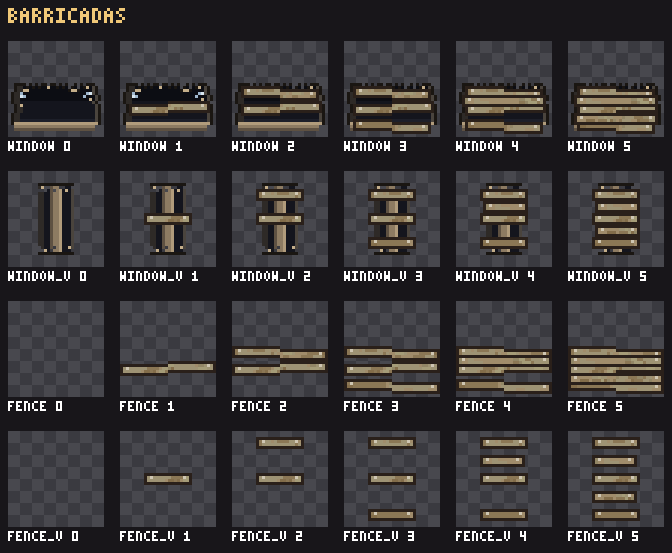
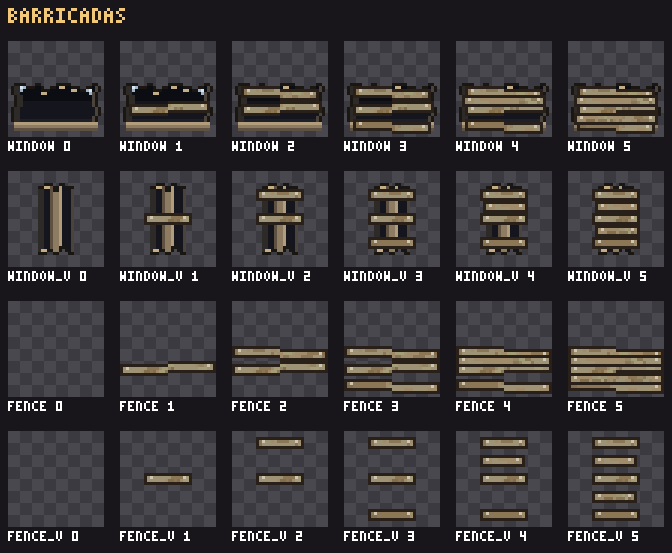
feat(mapa): el hueco de la ventana sin píxeles sueltos
El borde roto ya no alterna contorno y pared píxel a píxel: se rompe a
escalones de 2 px o más, con el contorno por vecindad, astillas de dos en
dos y cristales en grupos de tres. Lo mismo en la franja vertical.

PixelLab no dio con el diseño (Pro con referencia, inpaint sobre la pared
real y correct_pixelart), así que el arreglo está en el propio dibujo.

diff --git a/scripts/lib/window-art.ts b/scripts/lib/window-art.ts
@@ -64,76 +64,118 @@ const HOLE = {
   outline: rgb('#1a1612'),
 } as const;
 
-/** A fixed pseudo-random sequence, so the broken edge is the same on every build. */
-function noise(seed: number): () => number {
-  let s = seed;
-  return () => {
-    s = (s * 1103515245 + 12345) & 0x7fffffff;
-    return s / 0x7fffffff;
-  };
+/**
+ * A broken edge's profile: how far it bites in at each step along it, given
+ * as runs of [depth, length]. Runs of 2 px or more keep the edge in clean
+ * steps instead of a comb of single pixels (petición del usuario: no stray
+ * pixels).
+ */
+function profile(runs: readonly (readonly [number, number])[]): number[] {
+  return runs.flatMap(([depth, length]) => Array.from({ length }, () => depth));
+}
+
+/**
+ * Outlines `mask` (its cells marked true) inside the box (bx0..bx1, by0..by1):
+ * every cell of the box out of the mask that touches it side by side and
+ * where `edge(x, y)` (the mask cell it touches) allows it.
+ */
+function outline(f: Frame, mask: boolean[][], box: readonly [number, number, number, number], edge: (x: number, y: number) => boolean): void {
+  const [bx0, by0, bx1, by1] = box;
+  const on = (x: number, y: number): boolean => mask[y]?.[x] === true;
+  for (let y = by0; y <= by1; y++) {
+    for (let x = bx0; x <= bx1; x++) {
+      if (on(x, y)) continue;
+      const touches = (
+        [
+          [x - 1, y],
+          [x + 1, y],
+          [x, y - 1],
+          [x, y + 1],
+        ] as const
+      ).some(([nx, ny]) => on(nx, ny) && edge(nx, ny));
+      if (touches) setRgb(f, x, y, HOLE.outline);
+    }
+  }
 }
 
 /**
  * The hole a window leaves in a horizontal wall once its planks are gone
  * (petición del usuario: aligned with the wall, and more hole than wall):
  * the face broken open across almost its whole width (columns 2..29) and
- * height (rows 15..29 of the cell, under the wall's top edge), with a
- * jagged top edge and sides, a dark outline, splinters of the broken boards
- * and shards of glass in its corners. Inside, the dark, deeper at the top;
- * the wall's thickness shows on its left side (in shadow), as a lit sliver
- * on its right and as a sill at its bottom (light from the top left).
+ * height (rows 15..29 of the cell, under the wall's top edge), its top edge
+ * and sides broken in steps of 2 px or more, with a dark outline, a few
+ * splinters of the broken boards and shards of glass in its top corners.
+ * Inside, the dark, deeper at the top; the wall's thickness shows on its
+ * left side (in shadow), as a lit sliver on its right and as a straight
+ * sill at its bottom (light from the top left).
  */
 export function brokenHole(): Frame {
-  const rnd = noise(11);
   const f = blank(32, 32);
   const x0 = 2;
   const x1 = 29;
   const y0 = 15;
   const y1 = 29;
-  const top: number[] = [];
-  for (let x = x0; x <= x1; x++) top.push(y0 + (rnd() < 0.35 ? 1 : 0) + (rnd() < 0.12 ? 1 : 0));
-  const left: number[] = [];
-  const right: number[] = [];
+  const sill = y1 - 2;
+  /** How far the top edge bites down at each column (x0..x1) and the sides in at each row above the sill (y0..sill - 1). */
+  const top = profile([
+    [0, 4],
+    [1, 3],
+    [0, 2],
+    [2, 3],
+    [1, 2],
+    [0, 5],
+    [1, 3],
+    [2, 2],
+    [1, 2],
+    [0, 2],
+  ]);
+  const left = profile([
+    [0, 3],
+    [1, 4],
+    [0, 5],
+  ]);
+  const right = profile([
+    [0, 2],
+    [1, 5],
+    [0, 3],
+    [1, 2],
+  ]);
+  const mask: boolean[][] = Array.from({ length: 32 }, () => Array<boolean>(32).fill(false));
   for (let y = y0; y <= y1; y++) {
-    left.push(x0 + (rnd() < 0.3 ? 1 : 0));
-    right.push(x1 - (rnd() < 0.3 ? 1 : 0));
-  }
-  for (let y = y0; y <= y1; y++) {
-    const l = left[y - y0] ?? x0;
-    const r = right[y - y0] ?? x1;
+    const l = y >= sill ? x0 : x0 + (left[y - y0] ?? 0);
+    const r = y >= sill ? x1 : x1 - (right[y - y0] ?? 0);
     for (let x = l; x <= r; x++) {
-      if (y < (top[x - x0] ?? y0)) continue;
+      if (y < y0 + (top[x - x0] ?? 0)) continue;
+      const row = mask[y];
+      if (row) row[x] = true;
       const depth = (y - y0) / (y1 - y0);
       let c: Rgb = depth < 0.3 ? HOLE.darkTop : depth < 0.75 ? HOLE.dark : HOLE.darkLow;
       if (x <= l + 1) c = HOLE.jamb;
       if (x === r) c = HOLE.jambLit;
-      if (y >= y1 - 2) c = y === y1 ? HOLE.sillDark : y === y1 - 2 ? HOLE.sillLight : HOLE.sill;
+      if (y >= sill) c = y === y1 ? HOLE.sillDark : y === sill ? HOLE.sillLight : HOLE.sill;
       setRgb(f, x, y, c);
     }
   }
-  for (let x = x0; x <= x1; x++) setRgb(f, x, (top[x - x0] ?? y0) - 1, HOLE.outline);
-  for (let y = y0; y <= y1 - 2; y++) {
-    setRgb(f, (left[y - y0] ?? x0) - 1, y, HOLE.outline);
-    setRgb(f, (right[y - y0] ?? x1) + 1, y, HOLE.outline);
-  }
+  // The outline round the break, but not along the sill (it sits flush with the wall).
+  outline(f, mask, [x0 - 1, y0 - 1, x1 + 1, y1], (_x, y) => y < sill);
+  // Broken board ends sticking into the dark, 2 px each, under the top edge.
   for (const [x, y] of [
-    [5, 16],
-    [6, 16],
-    [13, 15],
+    [11, 17],
+    [12, 17],
+    [17, 15],
+    [18, 15],
     [21, 16],
     [22, 16],
-    [26, 15],
-    [4, 21],
-    [27, 19],
   ] as const)
     setRgb(f, x, y, HOLE.splinter);
+  // Shards of glass left in the top corners, 3 px each.
   for (const [x, y, c] of [
-    [4, 17, HOLE.glass],
-    [5, 18, HOLE.glass],
-    [4, 18, HOLE.glassLight],
-    [26, 17, HOLE.glass],
-    [27, 17, HOLE.glassLight],
-    [25, 18, HOLE.glass],
+    [4, 15, HOLE.glassLight],
+    [5, 15, HOLE.glass],
+    [4, 16, HOLE.glass],
+    [27, 16, HOLE.glassLight],
+    [26, 16, HOLE.glass],
+    [27, 17, HOLE.glass],
   ] as const)
     setRgb(f, x, y, c);
   return f;
@@ -141,20 +183,37 @@ export function brokenHole(): Frame {
 
 /**
  * The same hole in a vertical wall, seen from above: its 12 px strip
- * (columns 10..21) broken off along rows 5..26, with ragged ends and
- * splinters; down in the gap the wall's thickness (its left side in shadow,
- * a lit sliver on its right) and the sill along the middle, lower down.
+ * (columns 10..21) broken off along rows 5..26, its two ends broken in
+ * steps of 2 px or more with a dark outline and a splinter each; down in the
+ * gap the wall's thickness (its left side in shadow, a lit sliver on its
+ * right) and the sill along the middle, lower down.
  */
 export function brokenGap(): Frame {
-  const rnd = noise(23);
   const f = blank(32, 32);
   const x0 = 10;
   const x1 = 21;
   const y0 = 5;
   const y1 = 26;
-  for (let y = y0; y <= y1; y++) {
-    for (let x = x0; x <= x1; x++) {
-      if ((y < y0 + 2 || y > y1 - 2) && rnd() < 0.4) continue;
+  /** How far each end bites into the gap at each column (x0..x1). */
+  const top = profile([
+    [1, 2],
+    [0, 3],
+    [2, 2],
+    [0, 2],
+    [1, 3],
+  ]);
+  const bottom = profile([
+    [0, 3],
+    [1, 2],
+    [0, 2],
+    [2, 3],
+    [0, 2],
+  ]);
+  const mask: boolean[][] = Array.from({ length: 32 }, () => Array<boolean>(32).fill(false));
+  for (let x = x0; x <= x1; x++) {
+    for (let y = y0 + (top[x - x0] ?? 0); y <= y1 - (bottom[x - x0] ?? 0); y++) {
+      const row = mask[y];
+      if (row) row[x] = true;
       let c: Rgb = HOLE.dark;
       if (x <= x0 + 1) c = HOLE.jamb;
       if (x === x1) c = HOLE.jambLit;
@@ -162,15 +221,13 @@ export function brokenGap(): Frame {
       setRgb(f, x, y, c);
     }
   }
-  for (let x = x0; x <= x1; x++) {
-    setRgb(f, x, y0 - 1, HOLE.outline);
-    setRgb(f, x, y1 + 1, HOLE.outline);
-  }
+  // The outline across both broken ends, within the wall's strip (its sides are the wall's own edges).
+  outline(f, mask, [x0, y0 - 1, x1, y1 + 1], () => true);
   for (const [x, y] of [
-    [11, 5],
-    [19, 6],
+    [12, 5],
+    [13, 5],
+    [11, 26],
     [12, 26],
-    [20, 25],
   ] as const)
     setRgb(f, x, y, HOLE.splinter);
   return f;

diff --git a/scripts/lib/window-art.test.ts b/scripts/lib/window-art.test.ts
@@ -43,6 +43,48 @@ describe('window art', () => {
     expect(b && b.minX >= 10 && b.maxX <= 21 && b.minY >= 4 && b.maxY <= 27).toBe(true);
   });
 
+  it('breaks its edges in steps of 2 px or more and leaves no pixel alone in its colour (petición del usuario: no stray pixels)', () => {
+    const rgbAt = (f: Frame, x: number, y: number): string => {
+      const i = (y * f.width + x) * 4;
+      return (f.pixels[i + 3] ?? 0) === 0 ? '' : `${f.pixels[i]},${f.pixels[i + 1]},${f.pixels[i + 2]}`;
+    };
+    /** Each run of the same first row inside the outline along the hole's top edge (columns 2..29) or the gap's ends (from the top and from the bottom, columns 10..21). */
+    const runs = (edge: number[]): number[] => {
+      const out: number[] = [];
+      edge.forEach((v, i) => (i > 0 && v === edge[i - 1] ? (out[out.length - 1] = (out[out.length - 1] ?? 0) + 1) : out.push(1)));
+      return out;
+    };
+    const firstRow = (f: Frame, x: number, fromBottom: boolean): number => {
+      for (let k = 0; k < f.height; k++) {
+        const y = fromBottom ? f.height - 1 - k : k;
+        const c = rgbAt(f, x, y);
+        if (c && c !== '26,22,18') return y;
+      }
+      return -1;
+    };
+    const hole = brokenHole();
+    const gap = brokenGap();
+    const cols = (a: number, b: number): number[] => Array.from({ length: b - a + 1 }, (_, i) => a + i);
+    for (const edge of [
+      cols(2, 29).map((x) => firstRow(hole, x, false)),
+      cols(10, 21).map((x) => firstRow(gap, x, false)),
+      cols(10, 21).map((x) => firstRow(gap, x, true)),
+    ])
+      expect(Math.min(...runs(edge))).toBeGreaterThanOrEqual(2);
+    // Every splinter, shard and outline pixel has a neighbour of its own colour, or one of the other two colours of its cluster (a shard's light pixel).
+    for (const f of [hole, gap]) {
+      for (let y = 0; y < 32; y++) {
+        for (let x = 0; x < 32; x++) {
+          const c = rgbAt(f, x, y);
+          if (!c) continue;
+          const near = [rgbAt(f, x - 1, y), rgbAt(f, x + 1, y), rgbAt(f, x, y - 1), rgbAt(f, x, y + 1)];
+          const glass = (k: string): boolean => k === '159,182,204' || k === '216,230,240';
+          expect(near.includes(c) || (glass(c) && near.some(glass)), `${x},${y}`).toBe(true);
+        }
+      }
+    }
+  });
+
   it('cuts a plank of wood with a dark outline and a nail near each end', () => {
     const p = plank(wood(), 0, 0, 24);
     expect([p.width, p.height]).toEqual([24, 4]);

diff --git a/docs/ASSETS.md b/docs/ASSETS.md
@@ -97,8 +97,8 @@ public/assets/
 - **`window_planks`:** el frame N representa la ventana con N tablones (del 0 al 5).
   - La ventana es un hueco en su pared: su celda lleva el tramo de pared del muro (borde superior y cara del lado que mira, tablas por fuera o yeso hacia una habitación), y la hoja se dibuja encima con fondo transparente. Va justo por encima de su tramo de pared, que se ordena con los personajes.
   - Se monta con `npm run windows:compose`. El hueco se dibuja por código (`scripts/lib/window-art.ts`, `brokenHole` y `brokenGap`). Los tablones se cortan de la madera clara del suelo interior (`floors_interior.png`, bandas sin juntas), con contorno oscuro y dos clavos, y se clavan del centro hacia fuera, algo torcidos.
-  - **Frontal** (paredes horizontales): la cara reventada casi entera, recta con la pared (columnas 2–29 y filas 15–29, bajo el borde superior). Lleva el borde de arriba astillado, contorno oscuro, astillas y cristales en las esquinas. Por dentro, oscuridad (más honda arriba), el grosor del muro en sombra a la izquierda y con luz a la derecha, y el alféizar abajo.
-  - **Vertical** (`window_planks_v`): la franja de 12 px del muro visto desde arriba (columnas 10–21) rota a lo largo de las filas 5–26, con los extremos irregulares, el grosor del muro y el alféizar más abajo, en el centro. Lleva tablas cortas que la cruzan.
+  - **Frontal** (paredes horizontales): la cara reventada casi entera, recta con la pared (columnas 2–29 y filas 15–29, bajo el borde superior). Lleva el borde de arriba y los lados rotos a escalones de 2 px o más (sin píxeles sueltos), contorno oscuro, astillas de dos píxeles y cristales en las esquinas. Por dentro, oscuridad (más honda arriba), el grosor del muro en sombra a la izquierda y con luz a la derecha, y el alféizar abajo.
+  - **Vertical** (`window_planks_v`): la franja de 12 px del muro visto desde arriba (columnas 10–21) rota a lo largo de las filas 5–26, con los extremos rotos a escalones y contorno oscuro, el grosor del muro y el alféizar más abajo, en el centro. Lleva tablas cortas que la cruzan.
   - **Vallas** (`fence_planks`, `fence_planks_v`): los huecos de valla del jardín llevan solo los tablones, de poste a poste. El fotograma 0 está vacío, porque el hueco ya se ve como el suelo.
 - **`door`:** frame 0 = cerrada, frame 1 = abierta.
 - **Otros objetos del juego** (en el manifiesto como placeholder hasta tener arte): `bullet` (5×2, trazadora dibujada hacia +x: cola naranja y punta blanca, para no confundirse con la línea de apuntado ámbar), `aim_dot` (2×2), `blood` (16×16, 3 variantes), `pickup_ammo` y `pickup_health` (16×16, se dibujan apoyados en el suelo con el borde inferior como ancla), `flame` (8×12, con arte de PixelLab en la paleta del fuego de la mano: 3 lenguas de fuego, centrada, inclinada a la derecha y la misma en espejo, apoyadas en el borde inferior, que es el ancla; las usan los zombis ardiendo, el chorro del lanzallamas y los estallidos del fuego infernal, mezcladas con las chispas `hand_ember`), `weapon_case` (28×18, de frente al sur) y `weapon_case_v` (18×28, de frente al este; al oeste se dibuja en espejo): vitrinas de armas, un fotograma por arma en el orden de `WEAPON_IDS` (pistola, SMG, escopeta), apoyadas en el borde inferior de su casilla. Con arte de PixelLab y centrados en el punto: `hand_crack` (48×40, el agujero sellado por una costra cuyas grietas laten, en bucle), `hand_crack_opening` (48×40, la costra rompiéndose; al cerrarse se reproduce al revés), `hand_crack_open` (48×40, abierto con el fuego dentro, en bucle), `demon_hand` (32×48: puño, abierta sosteniendo el arma con la palma encendida, abierta y vacía, y el gesto obsceno; anclada por abajo, con la base del antebrazo en el borde inferior, que el juego recorta a ras de suelo al salir y al hundirse) y `hand_ember` (8×8, una brasa por fotograma, para la columna); y `weapon_icon` (32×16, con arte de PixelLab: cada arma de perfil apuntando a la derecha, un fotograma por arma en el orden de `WEAPON_IDS`; flota a 1× sobre la mano y se ve en los huecos de armas y en el botón de acción del HUD): la Mano del Demonio (spec 06 §3.7). `item_<id>` (`item_living_heart`, `item_worn_wand`; 24×24, con arte de PixelLab, 8 fotogramas en bucle a los fps del objeto en `items.ts`): cada objeto especial (spec 05) con su animación: el corazón latiendo y la varita con rayos en la punta. La misma hoja sirve en el suelo (dentro de un foco circular de luz ámbar que late, como los marcadores de misión de GTA San Andreas; la varita flota 5 px sobre él y sube y baja), en vuelo hacia la piscina y en su hueco del inventario del HUD, que la reproduce con CSS (`src/ui/itemSprites.ts`). Sin arte, se dibuja el icono del HUD (`src/ui/icons.ts`) centrado.

diff --git a/docs/DECISIONS.md b/docs/DECISIONS.md
@@ -1844,7 +1844,19 @@ Petición del usuario tras probar las armas especiales: el láser y el lanzallam
 - **Vallas:** los 3 huecos de valla del jardín tienen hojas propias (`fence_planks`, `fence_planks_v`): solo tablones de poste a poste y el fotograma 0 vacío.
 - **`npm run windows:compose`** monta las cuatro hojas, las marca en el manifiesto y deja la hoja de revisión en `maps/preview/windows/barricadas.png`.
 - **Revisión (petición del usuario):** la ventana de PixelLab, inclinada y pequeña dentro de mucha pared, quedaba irreal. La sustituye un hueco dibujado por código: recto con la pared, más hueco que pared alrededor y con el muro reventado (variante A de dos maquetas, elegida por el usuario frente a un hueco recto con marco).
-  - Ocupa las columnas 2–29 y las filas 15–29 de la cara. Tiene el borde de arriba y los lados irregulares (ruido fijo, igual en cada compilación), contorno oscuro, astillas del revestimiento, cristales en las esquinas, oscuridad más honda arriba, el grosor del muro a los lados y el alféizar abajo.
+  - Ocupa las columnas 2–29 y las filas 15–29 de la cara. Tiene el borde de arriba y los lados irregulares, contorno oscuro, astillas del revestimiento, cristales en las esquinas, oscuridad más honda arriba, el grosor del muro a los lados y el alféizar abajo.
   - En la pared vertical, la franja de 12 px rota con los extremos irregulares, el grosor del muro y el alféizar a lo largo del hueco.
   - Los tablones son los mismos, en posiciones ajustadas al hueco nuevo.
   - Se retiraron del repositorio los candidatos de PixelLab del hueco anterior (están en el historial; costaron 40 generaciones).
+- **Sin píxeles sueltos (petición del usuario):** el usuario vio píxeles sueltos en el hueco y pidió rehacerlo con PixelLab, siguiendo el mismo diseño.
+  - **Intentos con PixelLab, ninguno aprovechable (80 generaciones):**
+    - *Create Image (Pro)* con el dibujo como referencia (20 + 20 generaciones). Los frontales salieron a la mitad de ancho, como una ventanita entre tablas abiertas en forma de lazo, y la franja vertical, como rectángulos blancos con un listón.
+    - *Inpaint* sobre la pared real, con la caja del hueco como máscara (20 + 20). El frontal salió como un rectángulo negro sin alféizar ni borde roto, y el vertical como una tabla de madera.
+    - *correct_pixelart* (0,6 generaciones, sobre el sprite y sobre la pared) y el `repair` del *workbench*. Conservan la forma: el primero solo ajusta la paleta, y el segundo puntúa el dibujo con 99/100 y no encuentra ningún píxel suelto.
+  - **El origen era el dibujo:** el ruido cambiaba la altura del borde columna a columna. La fila de arriba alternaba un píxel de contorno y uno de pared, como un peine, y las astillas y algún cristal eran de un solo píxel.
+  - **Arreglo en `window-art.ts`:**
+    - El borde se rompe a escalones (`profile`): cada tramo tiene 2 px o más, y el ruido desaparece.
+    - El contorno rodea el hueco por vecindad (`outline`), también en los escalones verticales, salvo junto al alféizar, que queda a ras de la pared.
+    - Las astillas van de dos en dos y los cristales en grupos de tres.
+    - Un test comprueba los tramos de 2 px y que ningún píxel quede aislado en su color.
+  - Los candidatos descartados no se guardan en el repositorio; siguen en la galería de PixelLab.
